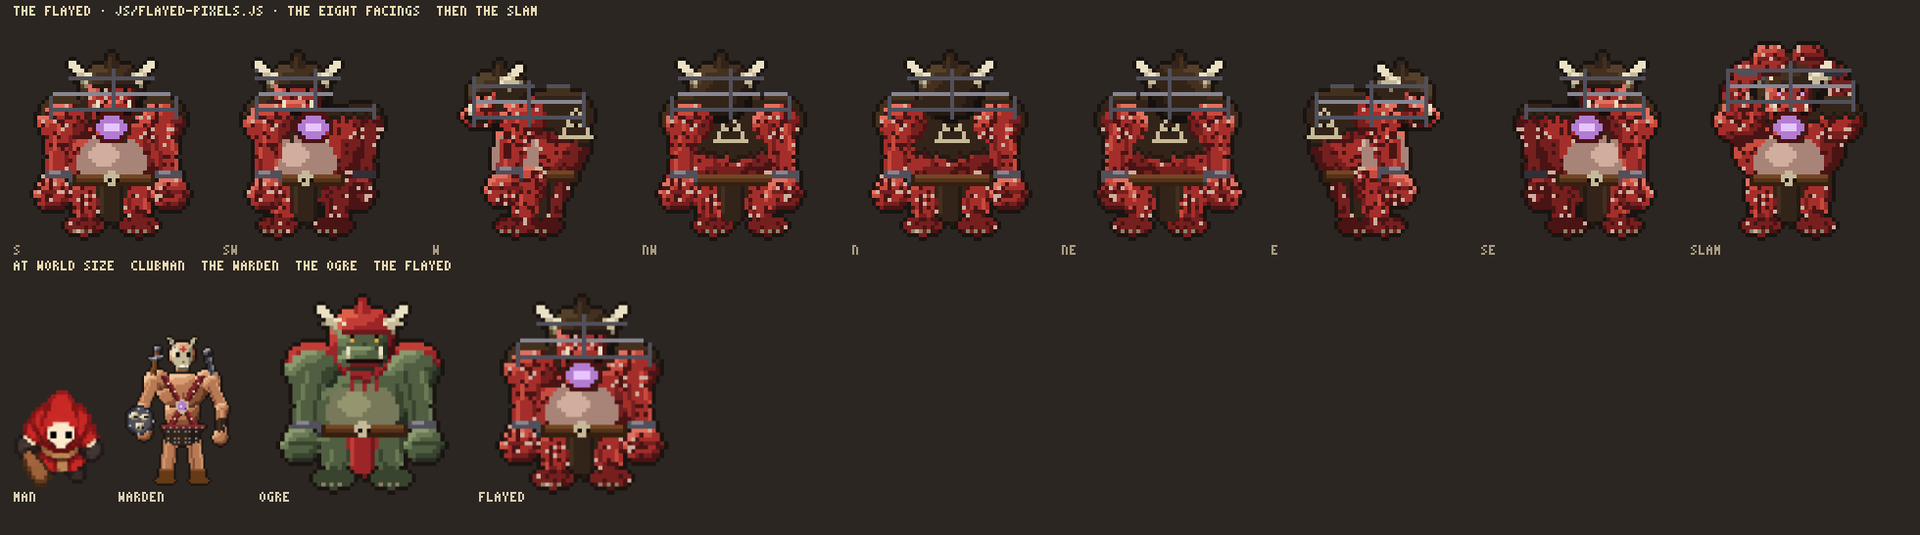
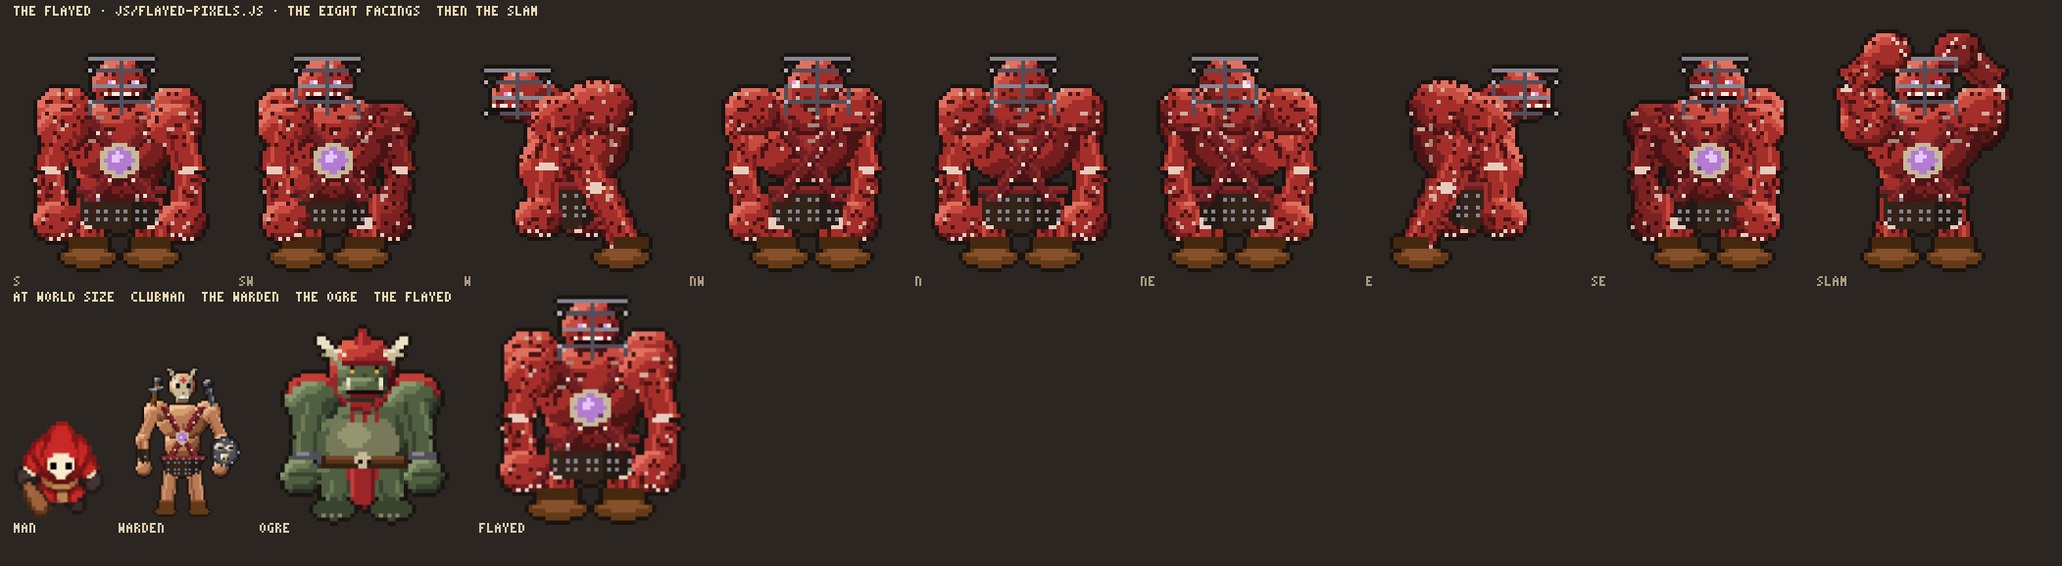
THE FLAYED as a body of his own, the front aim down the barrels, the handoff's view of her, the glimpse across THE ROAD's chasm
Claude-Session: https://claude.ai/code/session_01L9qovgtSoQu3sAcV1FcrLD

diff --git a/js/flayed-pixels.js b/js/flayed-pixels.js
@@ -1,50 +1,142 @@
-// THE FLAYED (10 Oct 2026, the user's second phase of the villain, output/villain-2026-10-10/phases.png A · CAGE "with the
-// fire fists"): the ogre's own body (js/ogre-pixels.js, every view and stride) with the hide taken off. Each of the ogre's
-// sprites is laid again with its colours swapped, hide to meat, the cult's red to dark leather, the eyes violet, fibres
-// hashed over the meat, an iron cage over the head and the corrupted soul lit through the chest on the front views. The fire
-// off his fists is the game's own particles (`Warden.fistFire`). Render only; node-requirable for a sheet.
+// THE FLAYED (10 Oct 2026, the user's second phase of the villain, output/villain-2026-10-10/phases.png A · CAGE "with the fire
+// fists"): the Warden with the soul swallowed and the skin off. A hand-placed pixel unit of his own in the ogre's recipe
+// (js/ogre-pixels.js: five views mirrored to eight, a stride, the `up` pose with the fists overhead for the slam and the
+// crouch), a size over the ogre. Meat with the fibres hashed in and sinew pale at every joint, lidless violet eyes and teeth
+// with no lips, an iron cage bolted round the head, the ribs showing, and what he kept of the man: the red X harness
+// stitched into the chest with the soul lit at its crossing, now the size of a fist, the studded loincloth, the hide boots.
+// The fire off his fists is the game's own particles (`Warden.fistFire`). Render only; node-requirable for a sheet.
 const FLAYED_PIXELS = (() => {
-  const O = typeof OGRE_PIXELS !== 'undefined' ? OGRE_PIXELS : require('./ogre-pixels.js');
   const { Grid } = typeof PROP_PIXELS !== 'undefined' ? PROP_PIXELS : require('./prop-pixels.js');
-  const P = O.P;
-  const MEAT = ['#4a1414', '#761f1f', '#a42e2a', '#c74b3e', '#e07060'], SINEW = ['#a88478', '#d0ad9c'];
-  const LEA = ['#15100d', '#241a14', '#332419', '#44301f', '#55402a'];
-  const IRON = ['#303038', '#51505b', '#878692'], SOUL = '#b47cd0', SOUL_HI = '#e6c4ff', EYE = '#d2a0f0';
-  const MAP = {
-    [P.h0]: MEAT[0], [P.h1]: MEAT[1], [P.h2]: MEAT[2], [P.h3]: MEAT[3], [P.h4]: MEAT[4],
-    [P.k1]: SINEW[0], [P.k2]: SINEW[1],
-    [P.q0]: LEA[0], [P.q1]: LEA[1], [P.q2]: LEA[2], [P.q3]: LEA[3], [P.q4]: LEA[4],
-    [P.e1]: EYE,
+  const OL = '#1a1411', W = 54, H = 62, FOOT = 60;
+  const MEAT = ['#4a1414', '#761f1f', '#a42e2a', '#c74b3e', '#e07060'], DIM = ['#3a0e0e', '#5a1818', '#7a2222', '#962c28', '#a43030'];
+  const SINEW = ['#7a5a52', '#a88478', '#d0ad9c', '#e8cdbd', '#fbeadf'];
+  const RLEA = ['#2a0c0e', '#4a1418', '#6e1e22', '#8a2a2c', '#a63c38'], LEA = ['#15100d', '#241a14', '#332419', '#44301f', '#55402a'];
+  const HIDE = ['#2a170c', '#46280f', '#653a17', '#86512a', '#a46c3c'], IRON = ['#1e1e24', '#303038', '#51505b', '#878692', '#b4b3bd'];
+  const BONE = ['#6e6650', '#8c8166', '#c6ba98', '#ebe1c4', '#fff7e2'];
+  const SOUL = '#b47cd0', SOUL_HI = '#e6c4ff', SOUL_DK = '#6a3d7a', EYE = '#d2a0f0', MOUTH = '#1a0608';
+  const lit = (T, dx, dy, n) => { const l = -(dx * 0.55 + dy * 0.83); return n > 0.82 && l < -0.45 ? T[0] : n > 0.55 && l < -0.2 ? T[1] : n > 0.72 && l > 0.55 ? T[4] : n > 0.4 && l > 0.3 ? T[3] : T[2]; };
+  const vol = (g, x, y, rx, ry, T, test) => {
+    for (let j = Math.floor(y - ry); j <= y + ry; j++) for (let i = Math.floor(x - rx); i <= x + rx; i++) {
+      const dx = (i + 0.5 - x) / rx, dy = (j + 0.5 - y) / ry, n = Math.hypot(dx, dy);
+      if (n > 1 || (test && !test(i, j))) continue; g.set(i, j, lit(T, dx, dy, n));
+    }
   };
   const hash = (x, y) => ((Math.imul(x + 5, 73856093) ^ Math.imul(y + 3, 19349663)) >>> 0) % 100;
+  const dot = (g, x, y, c, s = 1) => { const w = Math.max(1, Math.round(s)); g.rect(Math.round(x - (w - 1) / 2), Math.round(y - (w - 1) / 2), w, w, c); };
+  const limb = (g, x0, y0, x1, y1, t, T) => g.bar(x0, y0, x1, y1, t, T[2], T[3], T[1]);
+  // the fibres: dark strokes and pale sinew hashed over every meat pixel, laid last over the body
+  const fibres = (g) => { for (let y = 0; y < H; y++) for (let x = 0; x < W; x++) { const c = g.get(x, y); if (!MEAT.includes(c) && !DIM.includes(c)) continue; const h = hash(x * 3, y); if (h < 13) g.set(x, y, (DIM.includes(c) ? DIM : MEAT)[0]); else if (h > 96) g.set(x, y, SINEW[2]); } };
+  const joint = (g, x, y, r) => g.ell(x, y, r, r * 0.8, SINEW[3], true);
+  // A leg from the hip to the sole, the foot in a hide boot, `lift` px up on a stride.
+  const leg = (g, hx, fx, top, T, w, lift = 0, toe = 0) => {
+    limb(g, hx, top, fx, FOOT - 3 - lift, w, T); joint(g, (hx + fx) / 2, (top + FOOT - 3 - lift) / 2, 2.2);
+    g.ell(fx + toe, FOOT - 1.8 - lift, w * 0.9, 2.6, HIDE[2]); g.ell(fx + toe, FOOT - 2.6 - lift, w * 0.7, 1.4, HIDE[3]);
+    g.rect(Math.round(fx - w * 0.6), FOOT - 7 - lift, Math.round(w * 1.2), 3, HIDE[1]);
+  };
+  // One arm from the shoulder through the elbow to a fist as big as his head; `T` the meat (dim when far).
+  const arm = (g, sx, sy, ex, ey, fx, fy, T) => {
+    vol(g, sx, sy, 7, 6.5, T); limb(g, sx, sy, ex, ey, 8, T); joint(g, ex, ey, 2.6); limb(g, ex, ey, fx, fy, 7.5, T);
+    vol(g, fx, fy, 6, 5.5, T); const l = Math.hypot(fx - ex, fy - ey) || 1, ux = (fx - ex) / l, uy = (fy - ey) / l;
+    for (const k of [-3, -1, 1, 3]) dot(g, fx + k * -uy * 0.9 + ux * 3.5, fy + k * ux * 0.9 + uy * 3.5, SINEW[3]);   // the knuckles, pale
+  };
+  const loin = (g, cx, y, w) => { g.poly([[cx - w, y], [cx + w, y], [cx + w - 2, y + 9], [cx, y + 11], [cx - w + 2, y + 9]], LEA[2]); g.tone((x, yy) => x > cx + 2 && yy > y && yy < y + 12 && Math.abs(x - cx) <= w, LEA[1], [LEA[2]]); g.rect(cx - w, y - 1, 2 * w + 1, 2, RLEA[2]); g.hl(cx - w, y - 1, 2 * w + 1, RLEA[3]); for (let yy = y + 2; yy < y + 9; yy += 2.5) for (let x = cx - w + 2; x < cx + w - 1; x += 2.5) dot(g, x, yy, IRON[3]); };
+  // The harness he kept: two straps crossing, studs of bone, the soul big at the crossing (`soul`), or the straps alone on his back.
+  const harness = (g, cx, y0, y1, soul) => {
+    g.bar(cx - 11, y0, cx + 8, y1, 2.8, RLEA[2], RLEA[3], RLEA[1]); g.bar(cx + 11, y0, cx - 8, y1, 2.8, RLEA[2], RLEA[3], RLEA[1]);
+    for (let t = 0.1; t < 0.95; t += 0.16) { dot(g, cx - 11 + 19 * t, y0 + (y1 - y0) * t, BONE[3]); dot(g, cx + 11 - 19 * t, y0 + (y1 - y0) * t, BONE[3]); }
+    const my = y0 + (y1 - y0) * 0.58;
+    if (soul) { g.ring(cx, my, 5, 4.6, 1.4, BONE[2]); g.ell(cx, my, 3.6, 3.2, SOUL); g.ell(cx - 0.8, my - 0.8, 1.6, 1.3, SOUL_HI); dot(g, cx + 1.5, my + 1.5, SOUL_DK); }
+  };
+  // The ribs showing through the chest, three arcs a side, pale.
+  const ribs = (g, cx, y) => { for (let k = 0; k < 3; k++) { g.hl(cx - 9, y + k * 3, 5, SINEW[1], true); g.hl(cx + 5, y + k * 3, 5, SINEW[1], true); } };
+  // The cage: bars across and down round the head, a ring at the top, bolts at the corners.
+  const cage = (g, hx, hy, w, h) => {
+    for (const dy of [-h * 0.55, 0, h * 0.55]) for (let x = hx - w; x <= hx + w; x++) if (g.get(x, Math.round(hy + dy))) g.set(x, Math.round(hy + dy), dy === 0 ? IRON[3] : IRON[2]);
+    for (const dx of [-w, 0, w]) for (let y = hy - h; y <= hy + h; y++) if (g.get(Math.round(hx + dx), y)) g.set(Math.round(hx + dx), y, IRON[2]);
+    g.hl(Math.round(hx - w), Math.round(hy - h), Math.round(2 * w + 1), IRON[3]);
+    for (const [dx, dy] of [[-w, -h * 0.55], [w, -h * 0.55], [-w, h * 0.55], [w, h * 0.55]]) dot(g, hx + dx, hy + dy, IRON[4]);
+  };
+  // The head: a ball of meat sunk between the shoulders, lidless eyes, the teeth, in its cage. `face` 1 front, 0 back, -1 side.
+  const head = (g, hx, hy, face, turn = 0) => {
+    vol(g, hx, hy, 7, 6.5, MEAT);
+    if (face === 1) {
+      dot(g, hx - 3 - turn, hy - 1, SINEW[4], 2); dot(g, hx + 3 - turn, hy - 1, SINEW[4], 2); dot(g, hx - 3 - turn, hy - 1, EYE); dot(g, hx + 3 - turn, hy - 1, EYE);
+      g.hl(hx - 4 - turn, hy + 3, 9, MOUTH); for (let x = hx - 4 - turn; x <= hx + 4 - turn; x += 1.5) g.vl(Math.round(x), hy + 2, 1, SINEW[4]); for (let x = hx - 3.5 - turn; x <= hx + 4 - turn; x += 1.5) g.vl(Math.round(x), hy + 4, 1, SINEW[4]);
+    } else if (face === -1) {
+      dot(g, hx - 4, hy - 1, SINEW[4], 2); dot(g, hx - 4, hy - 1, EYE); g.hl(hx - 7, hy + 3, 6, MOUTH); for (let x = hx - 7; x <= hx - 2; x += 1.5) g.vl(Math.round(x), hy + 2, 1, SINEW[4]);
+    }
+    cage(g, hx - (face === -1 ? 1 : 0), hy, 8, 7);
+  };
+
+  // Front and the front diagonal (`turn` 1: the head and the chest swung toward his right hand).
+  function front(o, turn) {
+    const g = new Grid(W, H), cx = 27 - turn * 2, s = o.step, up = o.pose === 'up', lift = (k) => Math.max(0, k) * 3;
+    if (up) arm(g, cx + 14 - turn, 24, cx + 19 - turn, 14, cx + 9 - turn, 6, DIM);
+    else if (turn) arm(g, cx + 13, 25, cx + 16, 37, cx + 13, 49, DIM);
+    leg(g, cx - 7, cx - 8 - turn, 42, MEAT, 8, lift(s), -turn); leg(g, cx + 7, cx + 8 - turn, 42, MEAT, 8, lift(-s), -turn);
+    loin(g, cx - turn, 41, 11 - turn);
+    vol(g, cx - turn, 36, 11, 8, MEAT);                                   // the gut
+    vol(g, cx, 28, 15 - turn, 11, MEAT);                                  // the barrel of him
+    ribs(g, cx - turn * 2, 22);
+    harness(g, cx - turn, 19, 44, true);
+    vol(g, cx - 14 + turn, 21, 7.5, 6.5, MEAT); if (!turn) vol(g, cx + 14, 21, 7.5, 6.5, MEAT);   // the shoulders, over his head
+    head(g, cx - turn * 3, 14, 1, turn);
+    if (up) arm(g, cx - 14 + turn, 24, cx - 19 + turn, 14, cx - 9 + turn, 6, MEAT);
+    else {
+      arm(g, cx - 14 + turn, 25, cx - 18 + turn * 2, 37, cx - 16 + turn * 3, 49 - lift(-s) / 2, MEAT);
+      if (!turn) arm(g, cx + 14, 25, cx + 18, 37, cx + 16, 49 - lift(s) / 2, MEAT);
+    }
+    fibres(g);
+    return g;
+  }
+  // Side on, facing left: hunched, the head out in front of the shoulders, the far arm and leg a tone darker.
+  function side(o) {
+    const g = new Grid(W, H), s = o.step, up = o.pose === 'up';
+    if (up) arm(g, 32, 22, 33, 12, 24, 5, DIM); else arm(g, 32, 24, 34, 36, 31 - s * 2, 48, DIM);
+    leg(g, 32, 42, 32 - s * 3, DIM, 7.5, Math.max(0, -s) * 3, -2);
+    vol(g, 29, 28, 13, 12, MEAT); vol(g, 34, 20, 9, 7, MEAT);           // the barrel and the hump
+    vol(g, 21, 35, 7, 8, MEAT);                                           // the gut
+    g.bar(16, 22, 36, 44, 2.8, RLEA[2], RLEA[3], RLEA[1]); for (let t = 0.1; t < 0.95; t += 0.16) dot(g, 16 + 20 * t, 22 + 22 * t, BONE[3]);   // one strap seen
+    for (let k = 0; k < 3; k++) g.vl(37, 24 + k * 4, 2, SINEW[1]);      // the spine's knobs
+    loin(g, 27, 40, 9);
+    leg(g, 25, 42, 24 + s * 3, MEAT, 7.5, Math.max(0, s) * 3, -2);
+    vol(g, 20, 19, 6, 5.5, MEAT);                                         // the neck
+    head(g, 14, 17, -1);
+    if (up) arm(g, 25, 21, 24, 11, 17, 5, MEAT); else arm(g, 24, 23, 21, 36, 19 + s, 48, MEAT);
+    fibres(g);
+    return g;
+  }
+  // Back and the back diagonal: the spine, the straps crossing on his back, the cage from behind.
+  function back(o, turn) {
+    const g = new Grid(W, H), cx = 27 + turn * 2, s = o.step, up = o.pose === 'up', lift = (k) => Math.max(0, k) * 3;
+    if (up) { arm(g, cx - 14 + turn, 24, cx - 19 + turn, 14, cx - 9 + turn, 6, MEAT); arm(g, cx + 14 - turn, 24, cx + 19 - turn, 14, cx + 9 - turn, 6, MEAT); }
+    else { arm(g, cx - 14 + turn, 25, cx - 18 + turn * 2, 37, cx - 16 + turn * 3, 49 - lift(s) / 2, MEAT); arm(g, cx + 14 - turn, 25, cx + 18 - turn * 2, 37, cx + 16 - turn * 3, 49 - lift(-s) / 2, MEAT); }
+    leg(g, cx - 7, cx - 8 + turn, 42, MEAT, 8, lift(-s), turn); leg(g, cx + 7, cx + 8 + turn, 42, MEAT, 8, lift(s), turn);
+    loin(g, cx + turn, 41, 11 - turn);
+    vol(g, cx, 28, 15 - turn, 11, MEAT); vol(g, cx + turn, 20, 11 - turn, 7, MEAT);
+    for (let k = 0; k < 5; k++) g.hl(cx + turn * 2 - 1, 20 + k * 4, 3, SINEW[1]);   // the spine
+    harness(g, cx + turn, 19, 44, false);
+    vol(g, cx - 14 + turn, 21, 7.5, 6.5, MEAT); vol(g, cx + 14 - turn, 21, 7.5, 6.5, MEAT);
+    head(g, cx + turn * 3, 14, 0);
+    if (turn) { dot(g, cx + turn * 3 - 6, 13, SINEW[4], 2); dot(g, cx + turn * 3 - 6, 13, EYE); }   // the diagonal: one eye past his cheek
+    fibres(g);
+    return g;
+  }
+
+  const finish = (g) => g.outline(OL).clean(OL);
+  const VIEWS = [['front', 0], ['front', 1], ['side', 0], ['back', 1], ['back', 0], ['back', 1, true], ['side', 0, true], ['front', 1, true]];
   const cache = new Map();
   function sprite(d, pose, step) {
     const key = d + pose + step; let v = cache.get(key); if (v) return v;
-    const src = O.sprite(d, pose, step), g0 = src.g, g = new Grid(g0.w, g0.h);
-    let x0 = g0.w, x1 = -1, y0 = g0.h;
-    for (let y = 0; y < g0.h; y++) for (let x = 0; x < g0.w; x++) {
-      const c = g0.get(x, y); if (!c) continue;
-      let m = MAP[c] || c;
-      // fibres: short dark strokes and a pale sinew here and there over the meat
-      if (MEAT.includes(m)) { const h = hash(x * 3, y); if (h < 22) m = MEAT[0]; else if (h > 93) m = SINEW[1]; }
-      g.set(x, y, m);
-      if (c !== P.ol) { x0 = Math.min(x0, x); x1 = Math.max(x1, x); y0 = Math.min(y0, y); }
-    }
-    // the cage: three bars across the top of him and three down it, over whatever is there
-    const hw = Math.max(6, Math.round((x1 - x0) * 0.42)), cx = Math.round((x0 + x1) / 2);
-    // (the top rows are the horns: the bars start under them, over the head itself)
-    for (const dy of [6, 10, 14]) for (let x = cx - hw; x <= cx + hw; x++) if (g.get(x, y0 + dy)) g.set(x, y0 + dy, dy === 10 ? IRON[2] : IRON[1]);
-    for (const dx of [-hw, 0, hw]) for (let y = y0 + 4; y <= y0 + 16; y++) if (g.get(cx + dx, y)) g.set(cx + dx, y, IRON[1]);
-    // the soul in the open chest, on the views that show his front
-    const front = O.VIEWS[d][0] === 'front';
-    if (front) { const sy = O.FOOT - 27; g.ell(cx, sy, 3.6, 3, SOUL, true); g.ell(cx, sy, 1.8, 1.4, SOUL_HI, true); g.ring(cx, sy, 5, 4.2, 1, MEAT[0], true); }
-    v = { g, flip: src.flip }; cache.set(key, v); return v;
+    const [kind, turn, flip] = VIEWS[d], o = { pose: pose || 'idle', step: step || 0 };
+    const g = finish(kind === 'front' ? front(o, turn) : kind === 'side' ? side(o) : back(o, turn));
+    v = { g, flip: !!flip }; cache.set(key, v); return v;
   }
-  return { W: O.W, H: O.H, FOOT: O.FOOT, sprite, VIEWS: O.VIEWS };
+  return { W, H, FOOT, sprite, VIEWS };
 })();
 if (typeof module !== 'undefined') module.exports = FLAYED_PIXELS;
 
-// In the page: baked and drawn exactly as the ogre is (same size, same strides).
+// In the page: baked and drawn as the ogre is, a size over him (`TX`), the `up` pose through a slam or a leap.
 if (typeof document !== 'undefined') {
   const UP = 4, baked = new Map();
   FLAYED_PIXELS.TX = 1.4;

diff --git a/js/endboss.js b/js/endboss.js
@@ -40,7 +40,7 @@ const EndBoss = {
 
   // `startLevel`, once the souls are in: find the floor's last man and set him up for his meeting.
   lay(game) {
-    game.endBoss = null; game.endScene = null; game.supper = null; game.doom = false;
+    game.endBoss = null; game.endScene = null; game.supper = null; game.doom = false; game.glimpse = null;
     const L = game.level, def = L && L.def;
     if (!def || game.showroomOn || def.heaven || def.shroom || def.trip !== undefined || def.dark) return;
     const li = levelIndexOf(def);
@@ -49,6 +49,7 @@ const EndBoss = {
     const arenas = def.arenas || [], ring = arenas[arenas.length - 1];
     if (!ring) return;
     if (li === LEVELS.length - 1) { if (ring.supper) this.laySupper(game, ring, li); return; }
+    if (li === TUNING.endBoss.glimpse.floor) this.layGlimpse(game, li);
     const last = ring.at, room = L.rooms[last];
     if (!room) return;
     const e = game.enemies.find((o) => o.boss && o.soul && !o.dead && o.room === last);
@@ -271,14 +272,16 @@ const EndBoss = {
       if (done || S.pt > T.runCap) {
         if (!wd) { game.enemies = game.enemies.filter((o) => o !== m); shut(); return m; }
         // into the Warden's arm: he turns to the goat with her, and says so
-        phase('hand'); S.carrier = wd; m.facing = Math.atan2(wd.y - m.y, wd.x - m.x); wd.facing = Math.atan2(g.y - wd.y, g.x - wd.x);
+        phase('hand'); S.carrier = wd; m.facing = Math.atan2(wd.y - m.y, wd.x - m.x);
+        // he turns so that she, on his right side (`underArm`), is on the side away from the mage
+        wd.facing = Math.atan2(m.y - wd.y, m.x - wd.x) + Math.PI / 2;
         game.say(wd, T.wardenLine); game.audio.sfxGrowl(); game.floatText(wd.x, wd.y - 60, 'HA HA HA!', PALETTE.blood);
-        m.path = [{ x: m.x - S.out.x * TILE * 1.2 + S.out.y * TILE, y: m.y - S.out.y * TILE * 1.2 - S.out.x * TILE }];   // the mage steps aside
+        m.path = [{ x: m.x - S.out.x * TILE * 1.4 + S.out.y * TILE * 2.2, y: m.y - S.out.y * TILE * 1.4 - S.out.x * TILE * 2.2 }];   // the mage steps well aside, so she is seen under the Warden's arm
       }
       return m;
     }
     if (S.phase === 'hand') {
-      game.followPath(m, T.run * 0.6, dt); bleat();
+      game.followPath(m, T.run * 0.8, dt); bleat();
       if (S.pt >= T.hand) { phase('out'); wd.path = [{ x: d.x - S.out.x * TILE, y: d.y - S.out.y * TILE }, { x: d.x, y: d.y }, { x: d.x + S.out.x * TILE * 2.2, y: d.y + S.out.y * TILE * 2.2 }]; }
       return wd;
     }
@@ -473,6 +476,52 @@ const EndBoss = {
     return true;
   },
 
+  // ---- THE ROAD: a glimpse of him across the chasm ----
+  // (10 Oct 2026, the user's: seen three times before he is fought.) In the chasm lesson's empty room THE WARDEN stands on
+  // the far side of the drop with her under his arm; the goat in the room, he says his line, laughs, and walks out through
+  // the room's way out, gone past it. Not a held scene (`game.glimpse`, `glimpseStep` in the play step); untouchable (`barrier`).
+  layGlimpse(game, li) {
+    game.glimpse = null;
+    const L = game.level, c = (L.chasms || []).find((q) => q.lesson); if (!c) return;
+    const room = L.rooms[c.room], w = game.world; if (!room || !room.exitMouth) return;
+    const T = TUNING.endBoss.glimpse, mid = (c.lo + c.hi) / 2;
+    const spots = [];
+    for (let k = T.past; k <= T.past + 2; k += 0.5) for (const o of [0, -1, 1, -2, 2]) {
+      const tx = c.axis === 'v' ? c.at + c.far * k : mid + o, ty = c.axis === 'v' ? mid + o : c.at + c.far * k;
+      if (w.walkableAt(Math.floor(tx), Math.floor(ty))) spots.push({ x: (Math.floor(tx) + 0.5) * TILE, y: (Math.floor(ty) + 0.5) * TILE });
+    }
+    if (!spots.length) return;
+    const at = spots[0];
+    const e = new Enemy(at.x, at.y, 'bearer'); e.warden = true; e.scripted = true; e.barrier = true; e.aware = false; e.room = -1; e.pose = 'idle'; e.hp = e.maxHp = 99;
+    e.facing = c.axis === 'v' ? (c.far > 0 ? Math.PI : 0) : (c.far > 0 ? -Math.PI / 2 : Math.PI / 2);
+    game.enemies.push(e);
+    const s = { x: e.x, y: e.y, facing: 0, kick: 0, bleating: 0, jitter: null, vx: 0, vy: 0, gone: false };
+    game.underArm(s, e, 0);
+    game.glimpse = { room: c.room, e, ewe: s, seen: false, t: 0, bleat: 0.6 };
+  },
+  glimpseStep(game, dt) {
+    const G = game.glimpse, e = G.e, g = game.goat, T = TUNING.endBoss.glimpse, room = game.level.rooms[G.room];
+    if (!G || e.dead) { game.glimpse = null; return; }
+    if (e.say) { e.say.life -= dt; if (e.say.life <= 0) e.say = null; }
+    if (!G.seen) {
+      if (g.dead || !room || !this.inRoom(room, g.x, g.y)) { game.underArm(G.ewe, e, 0); return; }
+      G.seen = true; G.t = 0;
+      e.facing = Math.atan2(g.y - e.y, g.x - e.x);
+      game.say(e, T.line); game.floatText(e.x, e.y - 60, 'HA HA HA!', PALETTE.blood); game.audio.sfxGrowl();
+      game.floatText(G.ewe.x, G.ewe.y - 28, 'BEEH!', PALETTE.bone); game.audio.sfxBleat(540, 0.14, 0.26); G.ewe.bleating = 0.35;
+      const M = room.exitMouth, cx = (room.x + room.w / 2) * TILE, cy = (room.y + room.h / 2) * TILE;
+      const ox = M.vertical ? Math.sign(M.x - cx) || 1 : 0, oy = M.vertical ? 0 : Math.sign(M.y - cy) || 1;
+      e.path = [{ x: M.x - ox * TILE * 0.5, y: M.y - oy * TILE * 0.5 }, { x: M.x + ox * TILE * 2.5, y: M.y + oy * TILE * 2.5 }];
+      return;
+    }
+    G.t += dt;
+    game.underArm(G.ewe, e, G.t); G.ewe.bleating = Math.max(0, G.ewe.bleating - dt);
+    G.bleat -= dt; if (G.bleat <= 0) { G.bleat = 0.6 + Math.random() * 0.3; G.ewe.bleating = 0.25; game.floatText(G.ewe.x, G.ewe.y - 28, 'BEEH!', PALETTE.bone); game.audio.sfxBleat(540, 0.12, 0.25); }
+    const done = G.t > T.wait && game.followPath(e, T.speed * TILE, dt);
+    if (G.t <= T.wait) e.facing = Math.atan2(g.y - e.y, g.x - e.x);
+    if (done || G.t > T.cap) { game.enemies = game.enemies.filter((o) => o !== e); game.glimpse = null; }
+  },
+
   // ---- THE OSSUARY: THE LAST SUPPER ----
   // `startLevel`: the room's men sat along the table, the boss nearest the head, THE WARDEN standing past it, the chair (a wraith
   // hidden as a stool) past the foot, the platter on the middle table. The men are held (`endHold` 'sit') until it breaks.
@@ -659,7 +708,8 @@ const EndBoss = {
   },
   // Over everybody: the bone in his teeth, the bone in the air, her under the running mage's arm.
   drawWorld(R, game) {
-    const B = game.endBoss, S = game.endScene, U = game.supper;
+    const B = game.endBoss, S = game.endScene, U = game.supper, G = game.glimpse;
+    if (G && G.ewe && !G.e.dead && game.inSight(G.e)) R.drawSheep(G.ewe);
     if (U && U.warden && !U.warden.dead && game.inSight(U.warden)) {
       const w = U.warden, ctx = R.ctx;
       if (U.carry) { ctx.save(); ctx.translate(w.x, w.y - (PIXEL_EXTENT.warden + 4) * TILT); ctx.scale(1, 1 / TILT); R.painted.platter(ctx, 0, 0); ctx.restore(); }

diff --git a/js/warden-pixels.js b/js/warden-pixels.js
@@ -108,7 +108,14 @@ const WARDEN_PIXELS = (() => {
     if (up) { arm(g, rx, 27, cx - 20 * L, 20, cx - 17 * L, 7, T, 5.5); bracer(g, cx - 17 * L, 7, cx - 20 * L, 20); vol(g, cx - 17 * L, 6, 3.8, 3.4, T); for (const [dx, dy] of [[-3, -2.5], [-1.5, -3.5], [0.5, -3.5], [2.5, -2.5]]) limb(g, cx - 17 * L + dx * 0.6 * L, 5, cx - 17 * L + dx * L, 3 + dy, 1.6, T); if (p === 'raise') soulSpark(g, cx - 17 * L, 3); }
     else if (wind) { arm(g, rx, 27, cx - 22 * L, 22, cx - 20 * L, 12, T, 5.5); sword(g, cx - 20 * L, 12, cx - 26 * L, 2); }
     else if (swing) { arm(g, rx, 27, cx - 14 * L, 40, cx - 2 * L, 48, T, 5.5); sword(g, cx - 2 * L, 48, cx + 14 * L, 60); }
-    else if (aim) { arm(g, rx, 27, cx - 8 * L, 36, cx - 2 * L, 40, T, 5.5); gun(g, cx - 2 * L, 41, cx - 2 * L, 56); }
+    else if (aim) {
+      // the gun pointed at the camera: the stock up at his shoulder foreshortened, both hands on it, and the two muzzles looked down
+      arm(g, rx, 27, cx - 8 * L, 36, cx - 3 * L, 42, T, 5.5);
+      g.bar(cx + 3 * L, 29, cx - 1 * L, 39, 3.4, R.hide[2], R.hide[3], R.hide[1]);
+      g.ell(cx, 44.5, 6.2, 3.6, R.iron[2]); g.ring(cx, 44.5, 6.2, 3.6, 1, R.iron[1]);
+      for (const sg of [-1, 1]) { g.ell(cx + sg * 2.6, 44.5, 2.4, 2.4, R.iron[3]); g.ell(cx + sg * 2.6, 44.5, 1.3, 1.3, R.iron[0]); }
+      dot(g, cx - 4.5, 42.5, R.iron[4]);
+    }
     else { arm(g, rx, 27, cx - 19 * L, 39, cx - 18 * L, 52, T, 5.5); bracer(g, cx - 18 * L, 52, cx - 19 * L, 39); }
     head(g, cx - turn * 2, 13, T);
     mask(g, cx - turn * 2, 13, turn);

diff --git a/js/tuning.js b/js/tuning.js
@@ -1005,6 +1005,9 @@ const TUNING = {
     // Then (the user's, same day): he carries the platter to a corner (`corner` tiles in from it) and laughs there behind a barrier
     // (`TUNING.warden.barrier`) while his men fight; the last of them down, he throws the platter down, empty (`drop.wait` s of
     // that, `drop.line`), and the fight with him is on (js/warden.js), the score gone heavy (`audio.layers.doom`).
+    // THE ROAD's glimpse (10 Oct 2026): THE WARDEN on the far side of the lesson's drop, `past` tiles past it, with her under his arm;
+    // seen, his `line`, `wait` s looking at the goat, then out through the room's way out at `speed` tiles/s (`cap` s at most).
+    glimpse: { floor: 3, past: 2, line: 'STILL COMING, GOAT? SHE IS KEPT FOR THE TABLE.', wait: 1.6, speed: 4.6, cap: 12 },
     supper: { seat: 1.55, gap: 1.6, inset: 0.9, head: 1.5, chair: 1.1, slide: 0.9, slideBy: 0.8, lineGap: 3.2, leave: 4.2, leaveCap: 6, corner: 2.2, sink: 10,
       lines: ['SIT, LITTLE GOAT.', 'EAT WITH US.', 'SHE IS WARM STILL.'], laugh: 'NOT YET.', laughs: ['HA HA HA!', 'HAAA HA HA!', 'HEH HEH HEH.'],
       drop: { wait: 1.6, line: 'SHE WAS NEVER HERE.' } },

diff --git a/js/game.js b/js/game.js
@@ -4206,7 +4206,8 @@ class Game {
     if (this.skyTables) this.updateSkyTables(dt);
     if (this.powder && this.powder.size) this.updatePowder(dt);
     if (this.waves && this.waves.length) Waves.update(this, dt);   // a corrupted ogre's witchfire (js/waves.js)
-    if (this.supper) EndBoss.supperStep(this, dt);   // THE LAST SUPPER: the chair, his lines, what breaks it, his way out (js/endboss.js)
+    if (this.supper) EndBoss.supperStep(this, dt);
+    if (this.glimpse) EndBoss.glimpseStep(this, dt);   // THE ROAD: the Warden seen across the chasm with her (js/endboss.js)   // THE LAST SUPPER: the chair, his lines, what breaks it, his way out (js/endboss.js)
     Sacrifice.update(this, dt);   // THE SACRIFICE ALTAR: a heart a second for whatever stands on it (js/sacrifice.js)
     w.updateFire(dt);
     Status.update(this, dt);

diff --git a/js/pixel-art.js b/js/pixel-art.js
@@ -8,7 +8,7 @@
 // point is drawn at the origin, which is where every caller has already put the shadow.
 const PIXEL_EXTENT = {
   goat: 34, clubman: 36, brute: 38, mage: 38, hound: 40, hunter: 38, butcher: 48, wraith: 38,
-  chicken: 22, ratogre: 70, ogre: 66, spartan: 36, thrower: 48, shaman: 44, warden: 52, flayed: 66, mouse: 26, goose: 28, raven: 22, turtle: 28, 'sheep-pet': 32,
+  chicken: 22, ratogre: 70, ogre: 66, spartan: 36, thrower: 48, shaman: 44, warden: 52, flayed: 80, mouse: 26, goose: 28, raven: 22, turtle: 28, 'sheep-pet': 32,
 };
 // The painted slot names this pass fills. `sheep` is the goat's old slot name, not a sheep.
 const PIXEL_UNIT = {

diff --git a/CLAUDE.md b/CLAUDE.md
@@ -107,10 +107,10 @@ Always update that same URL rather than publishing a new artifact (see *Publishi
 | `js/thrower.js` | `Thrower`: the thrower's part of `Enemy.updateBearer` (looking for something to lift, the lift, the carry, the aim, the throw; his grab of the goat and the throw of him), the goat's `carried` / `tossed` states (`goatStep`), what he throws meeting the goat, and the animals he threw in the air (`game.tossed`, `fly`). Loads after `enemies.js`. |
 | `js/shaman.js` | `Shaman`: the shaman's part of `Enemy.updateBearer` (keeping back, THE SPIRIT `shspirit` into his clubmen, `o.spirit`; THE CALL `shcall` on the goat, `goat.called`, `Shaman.pull` holds the run key before `goat.update`), `update` (their clocks), `onDie`, and their picture (`drawTell`, `drawSpirit`, `drawWorld`). Loads after `thrower.js`. |
 | `js/waves.js` | `Waves` (8 Oct 2026): a corrupted ogre met again in a run (`game.ogreMet`, `e.soulMeet`, saved as `ogreMet`): from the `soulOgre.ring.from`-th his landing throws rings of witchfire with gaps, from the `line.from`-th his slam sends a band three tiles across at the goat; a heart unless he rolls. `game.waves`, `update` in the play step, `draw` after the fire. Loads after `enemies.js`. |
-| `js/endboss.js` | `EndBoss` (8 Oct 2026): THE FLOOR'S LAST MAN. The first five floors end on their own kind with the soul in him (`LEVELS[].arenas`, last entry in the last room; `with` names escorts the generator always stands at his back). `ENDBOSS_KEY` counts per browser which meeting it is (`meetFor`, one more the moment the goat walks into that room; dev drawer END BOSS row = `dev.endMeet`). `lay` (from `startLevel`) sets him up: `e.endBoss`, `e.soulMeet` (js/waves.js reads it), `endHold` (the ogre gnawing among his bones, the two mages by their bowl; `hold` from the top of `Enemy.update`). `watch` starts the floor's short scene (`game.endScene`, held like the gate's mage, `endActor`s shown through the fog): THE ALTAR's twin through the way out (third meeting on, `endTwin`, drops grass), THE YARD's mage and the opening's mage running out with her (bowls to witchfire `p.witch` from the second; his rune in rings `Waves.rings` from the third), THE CAVE's ogre throwing his bone and leaping. THE THRESHING FLOOR's rifleman: `shotgun`, `hunterBlink` from the second. LEVELS page shows each floor's last man. `GEN_RULES.endboss`. **THE LAST SUPPER** (10 Oct 2026, the user's, THE OSSUARY's last room, `SUPPER_TEMPLATE`, `arenas[].supper`, `TUNING.endBoss.supper`, `GEN_RULES.supper`): `laySupper` seats the room's men along the one long table (`e.seat`, `endHold` 'sit', a stool drawn under each), stands THE WARDEN (js/warden-pixels.js) at its head in `level.statueMen` (drawn with the cast, never in `game.enemies`), a wraith hidden as a stool (`Enemy.hide(game, 'stool')`) at its foot, a `platter` prop on the middle table. The goat in the room (`watch`): `startSupper`, not a held scene, `game.supper` (`supperStep` from the play step): the chair slides out under his raised hand, his `lines`, the score hushed (`audio.hush`), the goat free to walk. The chair reached (the wraith springs), BAAH, or a blow on anybody at the table: `breakSupper`, he laughs, every man is up, and he carries the platter to the room's corner nearest the way out (`corner`) and laughs there (`laughs`) behind his barrier (`e.barrier`, `TUNING.warden.barrier`: `barrierPush` keeps the goat out, a ring of violet cells) while they fight; the last of `brawlers` down (the chair's wraith among them), `dropPlatter`: it lies open and empty at his feet (`platter` prop, `p.open`), `drop.line`, and after `drop.wait` s the fight is his (js/warden.js) and the score goes heavy (`game.doom`, `audio.layers.doom`); `monster` once he has changed (`Warden.transform`), `done` when THE FLAYED falls and drops the way out's soul. The Warden is a real man of the room in `game.enemies`, `scripted` until his fight, carrying the way out's soul (`soulGate`) taken off the table's mage, so the gate waits on him. At the table a man is drawn sunk `sink` px and cut off at his feet (`drawEnemyBody`), the stool under him. Walking in, `GameAudio.sfxSupper` (`TUNING.audio.supper`): heaven's own harp notes, flat and far, over a drone. **A quit and CONTINUE keep it** (`supperSpot` in `Game.spotOf`, `game.spotIn` read by `laySupper` → `resumeSupper`): the brawl with him in the corner, the fight with the hearts he had, THE FLAYED with his, `done` with the soul loose or taken; only the offer itself starts over. **THE YARD's end hands her over** (10 Oct 2026, `startMage` / `stepMage`): the Warden waits a step inside the way out (`S.warden`, an `endActor` behind a barrier), the opening's mage runs to him (`run`), she goes under his arm (`hand`, `S.carrier`, `mage.wardenLine`, his laugh) and HE goes out through the gate with her (`out`); THE CAVE's mage comes without her from then on (`startOgre`, `S.ewe` null). Loads after `waves.js`. |
+| `js/endboss.js` | `EndBoss` (8 Oct 2026): THE FLOOR'S LAST MAN. The first five floors end on their own kind with the soul in him (`LEVELS[].arenas`, last entry in the last room; `with` names escorts the generator always stands at his back). `ENDBOSS_KEY` counts per browser which meeting it is (`meetFor`, one more the moment the goat walks into that room; dev drawer END BOSS row = `dev.endMeet`). `lay` (from `startLevel`) sets him up: `e.endBoss`, `e.soulMeet` (js/waves.js reads it), `endHold` (the ogre gnawing among his bones, the two mages by their bowl; `hold` from the top of `Enemy.update`). `watch` starts the floor's short scene (`game.endScene`, held like the gate's mage, `endActor`s shown through the fog): THE ALTAR's twin through the way out (third meeting on, `endTwin`, drops grass), THE YARD's mage and the opening's mage running out with her (bowls to witchfire `p.witch` from the second; his rune in rings `Waves.rings` from the third), THE CAVE's ogre throwing his bone and leaping. THE THRESHING FLOOR's rifleman: `shotgun`, `hunterBlink` from the second. LEVELS page shows each floor's last man. `GEN_RULES.endboss`. **THE LAST SUPPER** (10 Oct 2026, the user's, THE OSSUARY's last room, `SUPPER_TEMPLATE`, `arenas[].supper`, `TUNING.endBoss.supper`, `GEN_RULES.supper`): `laySupper` seats the room's men along the one long table (`e.seat`, `endHold` 'sit', a stool drawn under each), stands THE WARDEN (js/warden-pixels.js) at its head in `level.statueMen` (drawn with the cast, never in `game.enemies`), a wraith hidden as a stool (`Enemy.hide(game, 'stool')`) at its foot, a `platter` prop on the middle table. The goat in the room (`watch`): `startSupper`, not a held scene, `game.supper` (`supperStep` from the play step): the chair slides out under his raised hand, his `lines`, the score hushed (`audio.hush`), the goat free to walk. The chair reached (the wraith springs), BAAH, or a blow on anybody at the table: `breakSupper`, he laughs, every man is up, and he carries the platter to the room's corner nearest the way out (`corner`) and laughs there (`laughs`) behind his barrier (`e.barrier`, `TUNING.warden.barrier`: `barrierPush` keeps the goat out, a ring of violet cells) while they fight; the last of `brawlers` down (the chair's wraith among them), `dropPlatter`: it lies open and empty at his feet (`platter` prop, `p.open`), `drop.line`, and after `drop.wait` s the fight is his (js/warden.js) and the score goes heavy (`game.doom`, `audio.layers.doom`); `monster` once he has changed (`Warden.transform`), `done` when THE FLAYED falls and drops the way out's soul. The Warden is a real man of the room in `game.enemies`, `scripted` until his fight, carrying the way out's soul (`soulGate`) taken off the table's mage, so the gate waits on him. At the table a man is drawn sunk `sink` px and cut off at his feet (`drawEnemyBody`), the stool under him. Walking in, `GameAudio.sfxSupper` (`TUNING.audio.supper`): heaven's own harp notes, flat and far, over a drone. **A quit and CONTINUE keep it** (`supperSpot` in `Game.spotOf`, `game.spotIn` read by `laySupper` → `resumeSupper`): the brawl with him in the corner, the fight with the hearts he had, THE FLAYED with his, `done` with the soul loose or taken; only the offer itself starts over. **THE YARD's end hands her over** (10 Oct 2026, `startMage` / `stepMage`): the Warden waits a step inside the way out (`S.warden`, an `endActor` behind a barrier), the opening's mage runs to him (`run`), she goes under his arm (`hand`, `S.carrier`, `mage.wardenLine`, his laugh) and HE goes out through the gate with her (`out`); THE CAVE's mage comes without her from then on (`startOgre`, `S.ewe` null). **THE ROAD's glimpse** (`layGlimpse` / `glimpseStep`, `TUNING.endBoss.glimpse`, `game.glimpse`): in the chasm lesson's empty room the Warden stands on the far side of the drop with her under his arm, untouchable; the goat in the room, his line, his laugh, and out through the room's way out. Seen three times before he is fought: THE YARD's end, THE ROAD's drop, THE OSSUARY's table. Loads after `waves.js`. |
 | `js/warden-pixels.js` | `WARDEN_PIXELS` (10 Oct 2026): THE WARDEN, the villain (output/villain-2026-10-10/DESIGN.md: Lord Humungus of the meat cult, the man who took the ewe), the B · BONE look: a sawn goat's skull for a mask, red leather X harness with a corrupted soul at its crossing, the skull board on his left arm, the sawn-off over his left shoulder and a sword's hilt over his right. Five views drawn in the ogre's recipe (front, front diagonal, side, back diagonal, back) and mirrored to eight, the mirrored ones drawn with the board and the sword on the other arm so he stays right-handed; three stances; poses `idle`, `raise`, `carry`, `windup`, `swing`, `aim` off his state (`poseOf`). `PaintedArt.character` key `warden` (`e.warden`), `PIXEL_UNIT` / `PIXEL_EXTENT.warden`. Loads after `shaman-pixels.js`; node-requirable (`output/villain-2026-10-10/ingame.cjs`). |
 | `js/warden.js` | `Warden` (10 Oct 2026): THE WARDEN's fight, `TUNING.warden`. `give(e)`: seven hearts, the shieldman's board on his arm never worn out (`shieldUp` also asks `e.guardOff`, a clock of up and down stretches, and never up through an aim or a roll), the sword (`atk` reads `warden.sword`), THE THRESHING FLOOR's shotgun. `step` first in `updateBearer`: `chase` (the tumble `wroll` off a goat running straight at him, the gun between `gun.min` and `max` tiles, the sword in reach), `aim`, `windup` / `swing` / `recover`. `transform` on his last heart (`Enemy.die`): THE FLAYED, an ogre (kind `butcher`, `e.flayed`, js/flayed-pixels.js) with the soul he carried, the corrupted ogre's witchfire at its third meeting, `monster.hp` hearts, faster; `fistFire` the violet off his hands. `e.barrier` (THE LAST SUPPER): `die` and `fling` refuse. SPAWN rows THE WARDEN / THE FLAYED. Loads after `endboss.js`. |
-| `js/flayed-pixels.js` | `FLAYED_PIXELS` (10 Oct 2026): THE FLAYED, the Warden's second phase (phases.png A · CAGE), the ogre's own sprites (js/ogre-pixels.js, every view, stride and the slam) laid again with the hide swapped for meat, the red for leather, the eyes violet, fibres hashed in, an iron cage over the head, the soul lit in the chest on the front views. `PaintedArt.character` key `flayed` (`e.flayed` on a `butcher`), `PIXEL_UNIT` / `PIXEL_EXTENT.flayed`. Loads after `warden-pixels.js`. |
+| `js/flayed-pixels.js` | `FLAYED_PIXELS` (10 Oct 2026): THE FLAYED, the Warden's second phase (phases.png A · CAGE), a hand-built unit of his own in the ogre's recipe (five views mirrored to eight, a stride, the `up` pose for the slam and the crouch), a size over the ogre: meat with the fibres hashed in and sinew at the joints, lidless violet eyes and teeth, an iron cage round the head, the ribs showing, and what he kept of the man: the red X harness with the soul lit at its crossing, the studded loincloth, the hide boots. `PaintedArt.character` key `flayed` (`e.flayed` on a `butcher`), `PIXEL_UNIT` / `PIXEL_EXTENT.flayed`. Loads after `warden-pixels.js`; node-requirable (`output/villain-2026-10-10/flayed.cjs`). |
 | `js/sacrifice.js` | `Sacrifice` (9 Oct 2026): THE SACRIFICE ALTAR on THE CAVE (`TUNING.sacrifice`, `level.sacrifice` laid by `placeSacrifice` in gen.js, `GEN_RULES.sacrifice`). Level data, never a prop. `start` (from `startLevel`), `update` (in the play step: whatever living stands within `r`, the goat, a man, an animal, pays a heart every `tick` s and fills a socket, `game.altar.filled`; never emptied), `descend` (six full: `fade` s of dark, then `darkAt` = THE CAVE's index and the floor laid again as THE DARK, his build kept), `draw` (the wheel of six baked off `PROP_PIXELS.Grid` per count, the next socket breathing), `drawOverlay` (the dark). THE SHOWROOM's cave room has one that only starts over. Loads after `endboss.js`. |
 | `js/gapcross.js` | `GapCross` (8 Oct 2026): the men at a one-tile drop (`level.gaps`) with the goat across and no short way round: a hound or rifleman jumps it (state `hop`), a seer in sight blinks over, a plain clubman waits at the lip and after `gapCross.fall.after` s may try it and fall. `step` is asked first in `Enemy.update` and skips `act` while he is in the air. Loads after `waves.js`. |
 | `js/shop.js` | `Shop`: the mouse in the wall, her offers, provoking her, the rat ogre, what a ware is (`info`), what taking one hands back (`replaces`), nothing worn on a shelf (`restock`), and two capes' verbs (boomerang flight, blink). |

diff --git a/CHANGELOG.md b/CHANGELOG.md
@@ -31,6 +31,10 @@ https://claude.ai/code/artifact/098e742b-e742-4ce7-8499-a303fa5db021
 - **She changes hands at the end of THE YARD**: the opening's mage runs to the Warden waiting at the way out, she goes under his arm,
   "MINE NOW, GOAT. COME AND TAKE HER.", and he is the one who goes through the gate with her. THE CAVE's mage comes without her now.
 - **Walking into the hall** a few of heaven's harp notes sound, flat and far, over a drone, under the hushed score: is she here?
+- **THE FLAYED is a body of his own** (`js/flayed-pixels.js`, no longer the ogre re-skinned): the ogre's recipe, a size over him, meat
+  and sinew, the cage, the ribs, and the man's harness with the soul the size of a fist at its crossing.
+- **Seen three times**: on THE ROAD the Warden stands across the chasm lesson's drop with her under his arm, says his line and walks off.
+- The front aim looks down the two barrels now; at the handoff the mage steps well aside so she is seen under the Warden's arm.
 
 ## 0.001, published 9 Oct 2026: the versions start again at 0.001, and the playtest's fifteen notes
 

diff --git a/output/villain-2026-10-10/DESIGN.md b/output/villain-2026-10-10/DESIGN.md
@@ -107,3 +107,9 @@ Doom-like fight cue (the score's own combat stage plays), the monster's sprite.
 
 Eight facings of the Warden (`ingame.cjs` → `ingame.png`), the supper through a quit and CONTINUE, the handoff at the end of THE YARD
 (the mage runs to him, she goes under his arm, he goes out through the gate), and the hall's entry notes: heaven's harp, flat and far.
+
+## Built, fourth batch (10 Oct 2026)
+
+THE FLAYED drawn from scratch (`flayed.cjs` → `flayed.png`), the front aim down the barrels, the handoff's view of her, and the third
+sighting: across THE ROAD's chasm with her under his arm. The order of his appearances is now THE YARD's end, THE ROAD's drop, THE
+OSSUARY's table; the fight is the table's.
